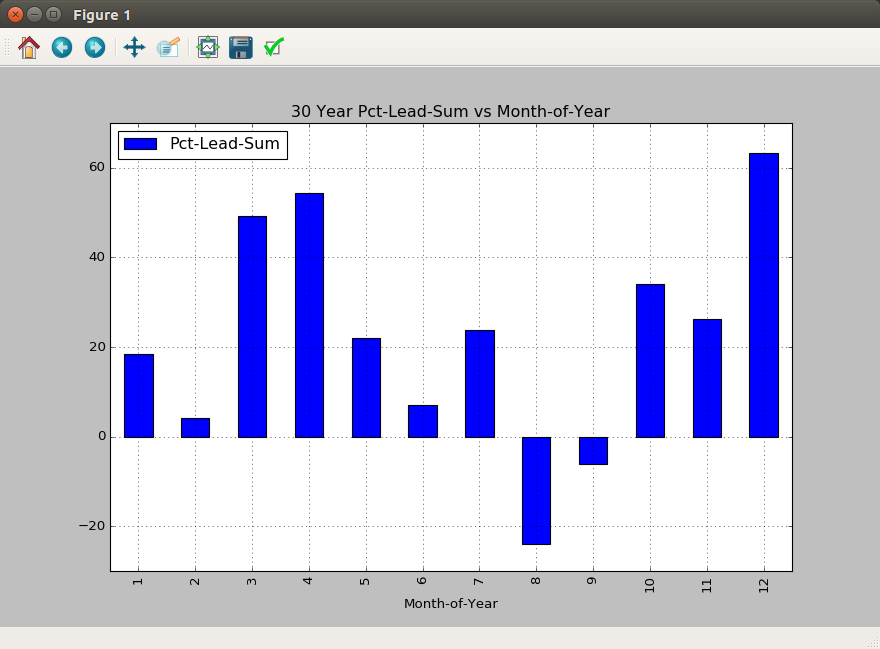
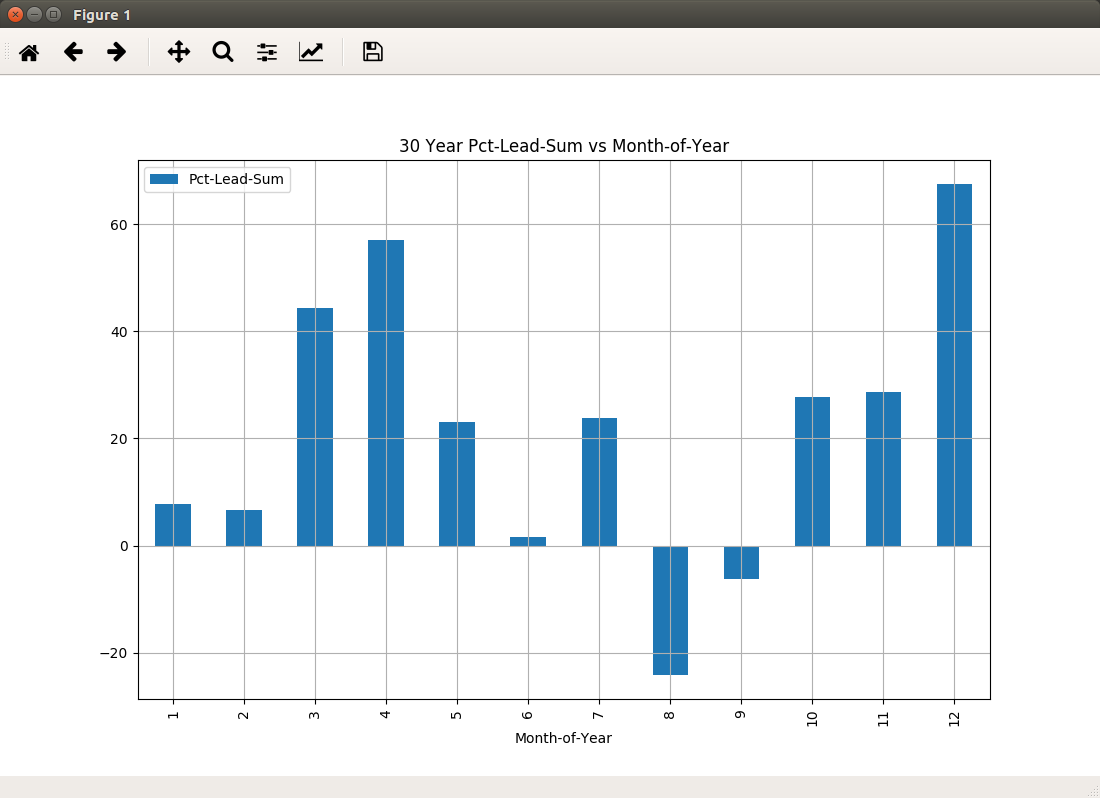
more

diff --git a/public/class03/moy_hist.py b/public/class03/moy_hist.py
@@ -1,34 +1,39 @@
-# moy_hist.py
+"""
+moy_hist.py
 
-# This script should create a visualization of pctlead vs Month of Year AKA moy:
-# Demo:
-# ~/anaconda3/bin/python moy_hist.py
-
-import pandas as pd
-
-# I should get dates and prices.
-df10 = pd.read_csv('http://ichart.finance.yahoo.com/table.csv?s=%5EGSPC')
-
-# I should compute pctlead:
-df10['pctlead'] = (100.0 * (df10.Close.shift(1) - df10.Close) / df10.Close).fillna(0)
-
-# I should compute moy:
-dt_sr = pd.to_datetime(df10.Date)
-moy_l = [int(dt.strftime('%-m')) for dt in dt_sr]
-df10['moy'] = moy_l
-
-# Over the past 30 years I should collect pctlead vs moy:
-yr30_i = 252 * 30
-df11   = df10[1:yr30_i][['pctlead','moy']]
-df11.columns = ['Pct-Lead-Sum','Month-of-Year']
-
-# I should groupby moy and compute sum():
-moy_gb_df = df11.groupby('Month-of-Year').sum()
-print(moy_gb_df)
+This script should create a visualization of pctlead vs Month of Year AKA moy:
+Demo:
+~/anaconda3/bin/python moy_hist.py
+"""
 
 import matplotlib
 import matplotlib.pyplot as plt
+import pandas as pd
 
+# I should get dates and prices.
+csv_df      = pd.read_csv('http://www.spy611.com/csv/allpredictions.csv')
+cdate_cp_df = csv_df.copy()[['cdate','cp']]
+
+# I should compute pctlead:
+cdate_cp_df['pctlead'] = (100.0 * (cdate_cp_df.cp.shift(-1) - cdate_cp_df.cp) / cdate_cp_df.cp).fillna(0)
+
+# I should compute moy:
+dt_sr = pd.to_datetime(cdate_cp_df.cdate)
+moy_l = [int(dt.strftime('%-m')) for dt in dt_sr]
+cdate_cp_df['moy'] = moy_l
+
+# Over the past 30 years I should collect pctlead vs moy:
+yr30_i                 = 252 * 30
+cdate_moy_pctlead_df   = cdate_cp_df.iloc[-yr30_i:][['cdate','pctlead','moy']]
+moy_pctlead_df         = cdate_moy_pctlead_df[['pctlead','moy']]
+moy_pctlead_df.columns = ['Pct-Lead-Sum','Month-of-Year']
+
+# I should groupby moy and compute sum():
+moy_gb_df = moy_pctlead_df.groupby('Month-of-Year').sum()
+# I should see a simple report:
+print(moy_gb_df)
+
+# I should see a plot of pct-lead vs MOY:
 moy_gb_df.plot.bar(title="30 Year Pct-Lead-Sum vs Month-of-Year", figsize=(11,7))
 plt.grid(True)
 plt.show()
